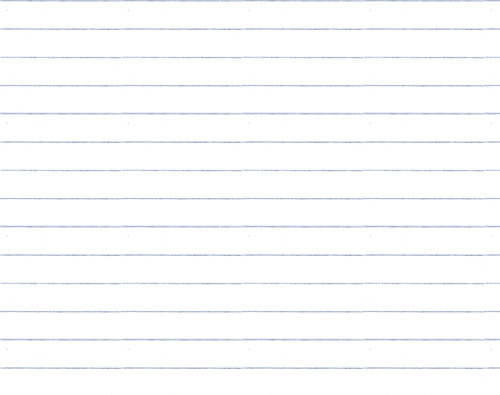
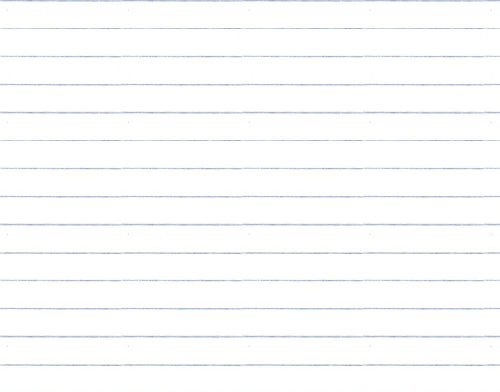
nikko-fallのCSSとアニメーションの調整

diff --git a/css/nikko-fall.css b/css/nikko-fall.css
@@ -62,8 +62,16 @@ header #header_title *{
 
 /* adjust to match lines */
 section {
-	margin-top: 12px;
-	min-height: 438px;
+	margin-top: 0px;
+	min-height: 448px;
+}
+
+section.offset-wrapper-2 {
+	margin-top: 6px;
+}
+section.empty-section {
+	min-height: 196px;
+	padding-top: 28px;
 }
 
 section .container .row img {
@@ -140,9 +148,6 @@ footer a {
 	content: url(../images/nikko-fall/icon_work.png);
 }
 
-section.empty-section {
-	min-height: 193px;
-}
 
 /* Large desktop */
 @media (min-width: 1200px) { 
@@ -157,13 +162,17 @@ section.empty-section {
 	/* adjust to match lines */
 	p {
 		font-size: 20px;
+		margin-top: 28px;
 	}
 	section {
-		margin-top: 35px;
-		min-height: 559px;
+		margin-top: 0px;
+		min-height: 560px;
+	}
+	section.offset-wrapper-2 {
+		margin-top: 33px;
 	}
 	section.empty-section {
-		min-height: 188px;
+		min-height: 196px;
 	}
 }
 
@@ -196,7 +205,6 @@ section.empty-section {
 		top: 0px;	
 		left: 0px;
 		margin-top:10px;
-		margin-bottom:10px;
 	}
 
 	/* adjust to match lines */
@@ -206,7 +214,7 @@ section.empty-section {
 		margin-bottom: 0px;
 	}
 	section.empty-section {
-		min-height: 198px;
+		min-height: 196px;
 		margin-top: 0px;
 		margin-bottom: 0px;	
 	}
@@ -250,8 +258,13 @@ section.empty-section {
 	}
 
 	/* adjust to match lines */
-	section.empty-section, section {
-		min-height: 226px;
+	section {
+		min-height: 0px ;
+		margin-top: 0px;
+		margin-bottom: 0px;
+	}
+	section.empty-section {
+		min-height: 218px ;
 		margin-top: 0px;
 		margin-bottom: 0px;
 	}
@@ -274,7 +287,7 @@ section.empty-section {
 		height: auto;
 	}*/
 	.offset-wrapper-2 {
-		margin-top: 13px;
+		margin-top: 27px;
 	}
 	
 }

diff --git a/page-nikko_fall.php b/page-nikko_fall.php
@@ -178,38 +178,98 @@ Template Name: 秋の日光
 	        
 	    });
 
+	    Element.prototype.documentOffsetTop = function () {
+		    return this.offsetTop + ( this.offsetParent ? this.offsetParent.documentOffsetTop() : 0 );
+		};
+
+
 		$(function(){
+
+			var _windowHeight = $(window).height();
+			var scrollingEvent = function(event) {
+				$(".img-block img").each(function(index,element) {
+
+					var _bound = element.getBoundingClientRect();
+					var _34_windowHeight = _windowHeight * 3/4;
+					if(_bound.top >= _34_windowHeight && _bound.top < _windowHeight){
+						element.style.opacity = -4*_bound.top/_windowHeight + 4;
+					}else if(_bound.top < _34_windowHeight && _bound.bottom > _windowHeight/4){
+						element.style.opacity = 1;
+					}else if(_bound.bottom > 0 && _bound.bottom <= _34_windowHeight){
+						element.style.opacity = 4*_bound.bottom/_windowHeight;
+					}else{
+						element.style.opacity = 0;
+					}
+					
+				});
+			}
+
+			var updateViewAndEvent = function(){
+				_windowHeight = $(window).height();
+				if($(window).width() < 980){
+
+					$(window).unbind('scroll',scrollingEvent);
+
+					$(".img-block img").each(function(index,element) {
+						element.style.opacity = 1;
+					});
+
+					var _margin_height = 0;
+
+					$(".img-block").each(function(index, element) {
+						var line_height = 28;
+						var _e = $(element);
+						var _h = _e[0].offsetTop + _e.height();
+						
+						var _new_margin_height = 0;
+						for(var i =1;i<1000;i++){
+							var _new_offset_top = i*line_height;
+							if(_new_offset_top > _h){
+								_new_margin_height = _new_offset_top - _h;
+								_margin_height += _new_margin_height;
+								break;
+							}
+						}
+				    	element.style.marginBottom = (_new_margin_height) + "px";
+				    });	
+				}else{
+
+					_windowHeight = $(window).height();
+					$(".img-block img").each(function(index,element) {
+						var _bound = element.getBoundingClientRect();
+						var _34_windowHeight = _windowHeight * 3/4;
+						if(_bound.top < _34_windowHeight && _bound.bottom > _windowHeight/4){
+							element.style.opacity = 1;
+						}else {
+							element.style.opacity = 0;
+						}
+					});
+
+					$(window).scroll(scrollingEvent);
+				}
+			}
+
 			var doit;
 			window.onresize = function(){
 				clearTimeout(doit);
 				// doing the resizedDoneAction every 100 milliseconds
 			  	doit = setTimeout(function(){
-			  		updateView();
+			  		updateViewAndEvent();
 			  	}, 500);
 			};
-			doit = setTimeout(function(){
-				updateView();
-			},500);
 			
+			
+			var _temp_images = $(".img-block img");
+			var _count = 0;
+			_temp_images.each(function(index,element){
+				$(element).load(function(){
+					_count ++;
+					if(_count >= _temp_images.length){
+						updateViewAndEvent();
+					}
+				});
+			});
 
-			function updateView(){
-				if($(window).width() < 980){
-					$(".img-block").each(function(index, element) {
-						var line_height = 28;
-						var _e = $(element);
-						var _h = _e[0].offsetHeight;
-						var _new_margin_height = 0;
-						for(var i =1;i<200;i++){
-							var _new_height = i*line_height;
-							if(_new_height > _h){
-								_new_margin_height = _new_height - _h;
-								break;
-							}
-						}
-				    	element.style.marginBottom = (_new_margin_height + 2) + "px";
-				    });	
-				}
-			}
 
 		})
 		</script>
